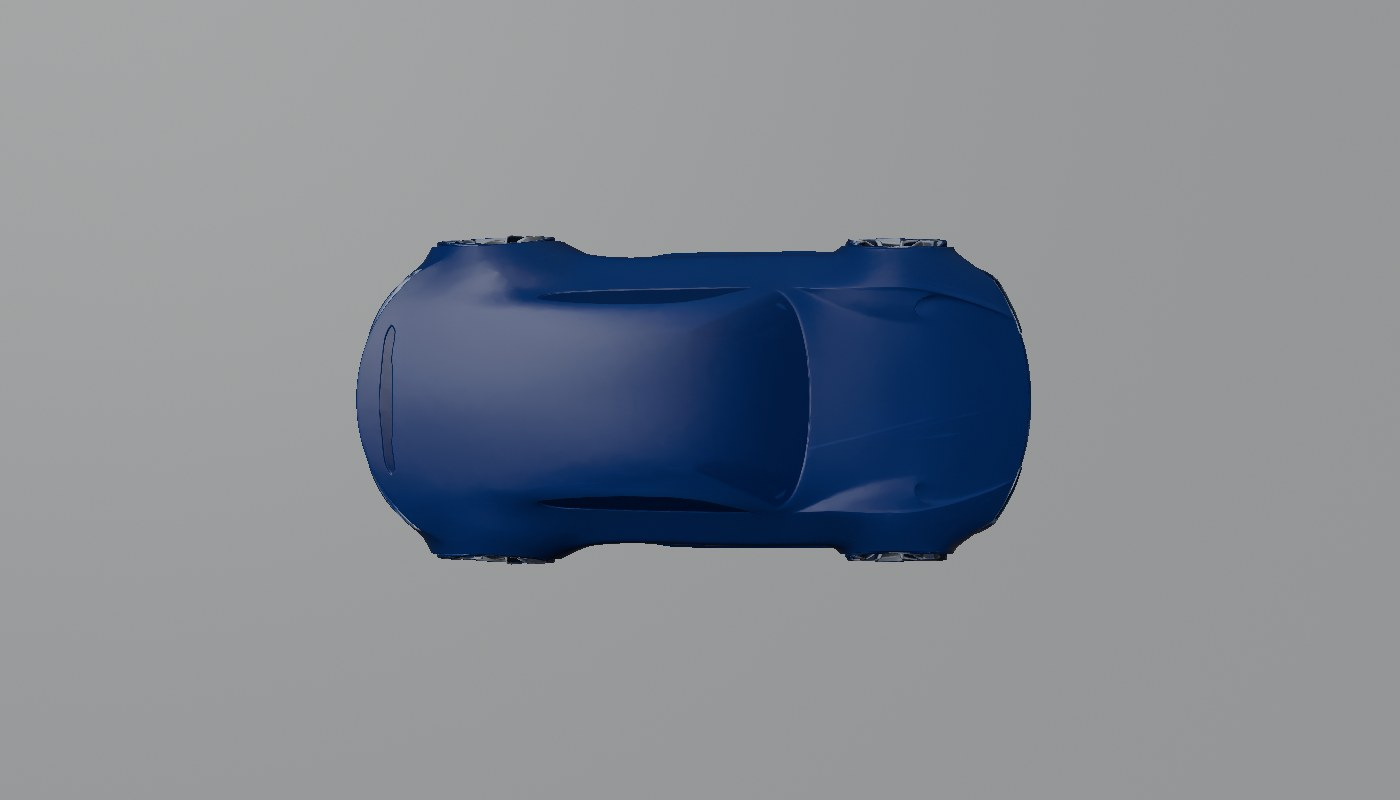
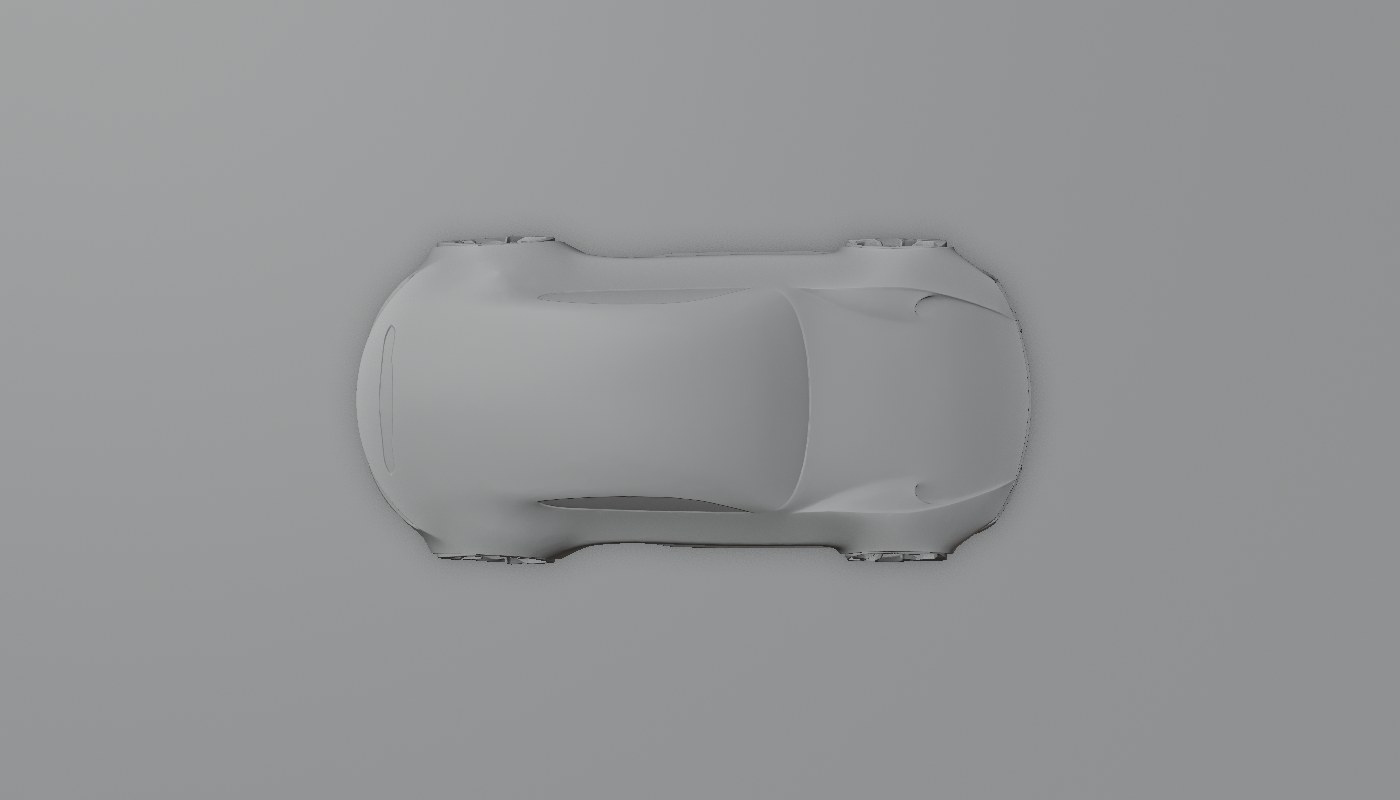
Fix Screenshot-Skript: graue Variante war seit 0.8.0 texturiert (Zeile verloren) + Selbstkontrolle; Test mit Gold/Gelb-Fotos (30 Credits), Xiaomi-Grau korrigiert
Claude-Session: https://claude.ai/code/session_01UzVVURvzRke4z6PePHSZi7

Changed region(s): [[0.2457, 0.2812, 0.7371, 0.7188]]

diff --git a/tests/meshy_cars/check_orientation_bpy.py b/tests/meshy_cars/check_orientation_bpy.py
@@ -41,6 +41,7 @@ STYLES = {"textur": dict(color_type="TEXTURE", show_cavity=False),
 sh.single_color = (0.72, 0.72, 0.72)
 sh.cavity_type = "BOTH"; sh.cavity_ridge_factor = 1.0; sh.cavity_valley_factor = 1.0
 for style, opts in STYLES.items():
+    sh.color_type, sh.show_cavity = opts["color_type"], opts["show_cavity"]       # NICHT entfernen: sonst ist "grau" in Wahrheit texturiert
     for k, v in views.items():
         t0 = time.time()
         if v is None:
@@ -50,3 +51,16 @@ for style, opts in STYLES.items():
         sc.render.filepath = SP + "/shot_%s_%s.png" % (style, k)
         bpy.ops.render.render(write_still=True)
         print("Screenshot %-6s %-20s %.1f s" % (style, k, time.time() - t0))
+
+# Selbstkontrolle: die graue Variante muss wirklich farblos sein, die Lack-Variante darf es nicht sein (Regression: 0.8.0 lieferte "grau" mit Textur)
+import numpy as np
+def _sat(f):
+    im = bpy.data.images.load(f)
+    w, h = im.size
+    a = np.array(im.pixels[:]).reshape(h, w, 4)[..., :3] * 255.0
+    ctr = a[250:650, 200:1200]                                   # Bildmitte = Auto
+    return float((ctr.max(2) - ctr.min(2)).mean())
+sg, st = _sat(SP + "/shot_grau_seite_von_minus_y.png"), _sat(SP + "/shot_textur_seite_von_minus_y.png")
+print("Farbsaettigung Bildmitte: grau %.1f | textur %.1f" % (sg, st))
+assert sg < 12, "grauer Screenshot ist nicht grau (Saettigung %.1f)" % sg
+assert st > sg + 5, "Lack-Screenshot ist nicht farbiger als grau"
